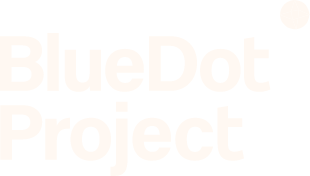
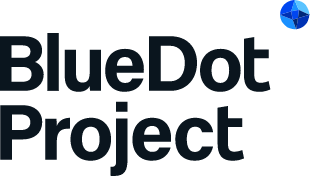
Update image styling in Partners component and replace bluedot and recommon images for improved visual consistency

Changed region(s): [[0.0, 0.1705, 0.871, 0.5398], [0.0, 0.5682, 0.7839, 1.0], [0.9, 0.0, 1.0, 0.1705]]

diff --git a/components/Partners.tsx b/components/Partners.tsx
@@ -42,7 +42,7 @@ const Partners = (): JSX.Element => {
                     <Image
                     width={125}
                     height={65} key={partner.name} src={partner.image} alt={partner.name}
-                    className='scale-110 md:scale-100 drop-shadow-[0px_0px_2px_rgba(230,162,0,0.9)] '/>
+                    className='scale-110 md:scale-100 '/>
                     </Link>
                 ))}
             </div>
